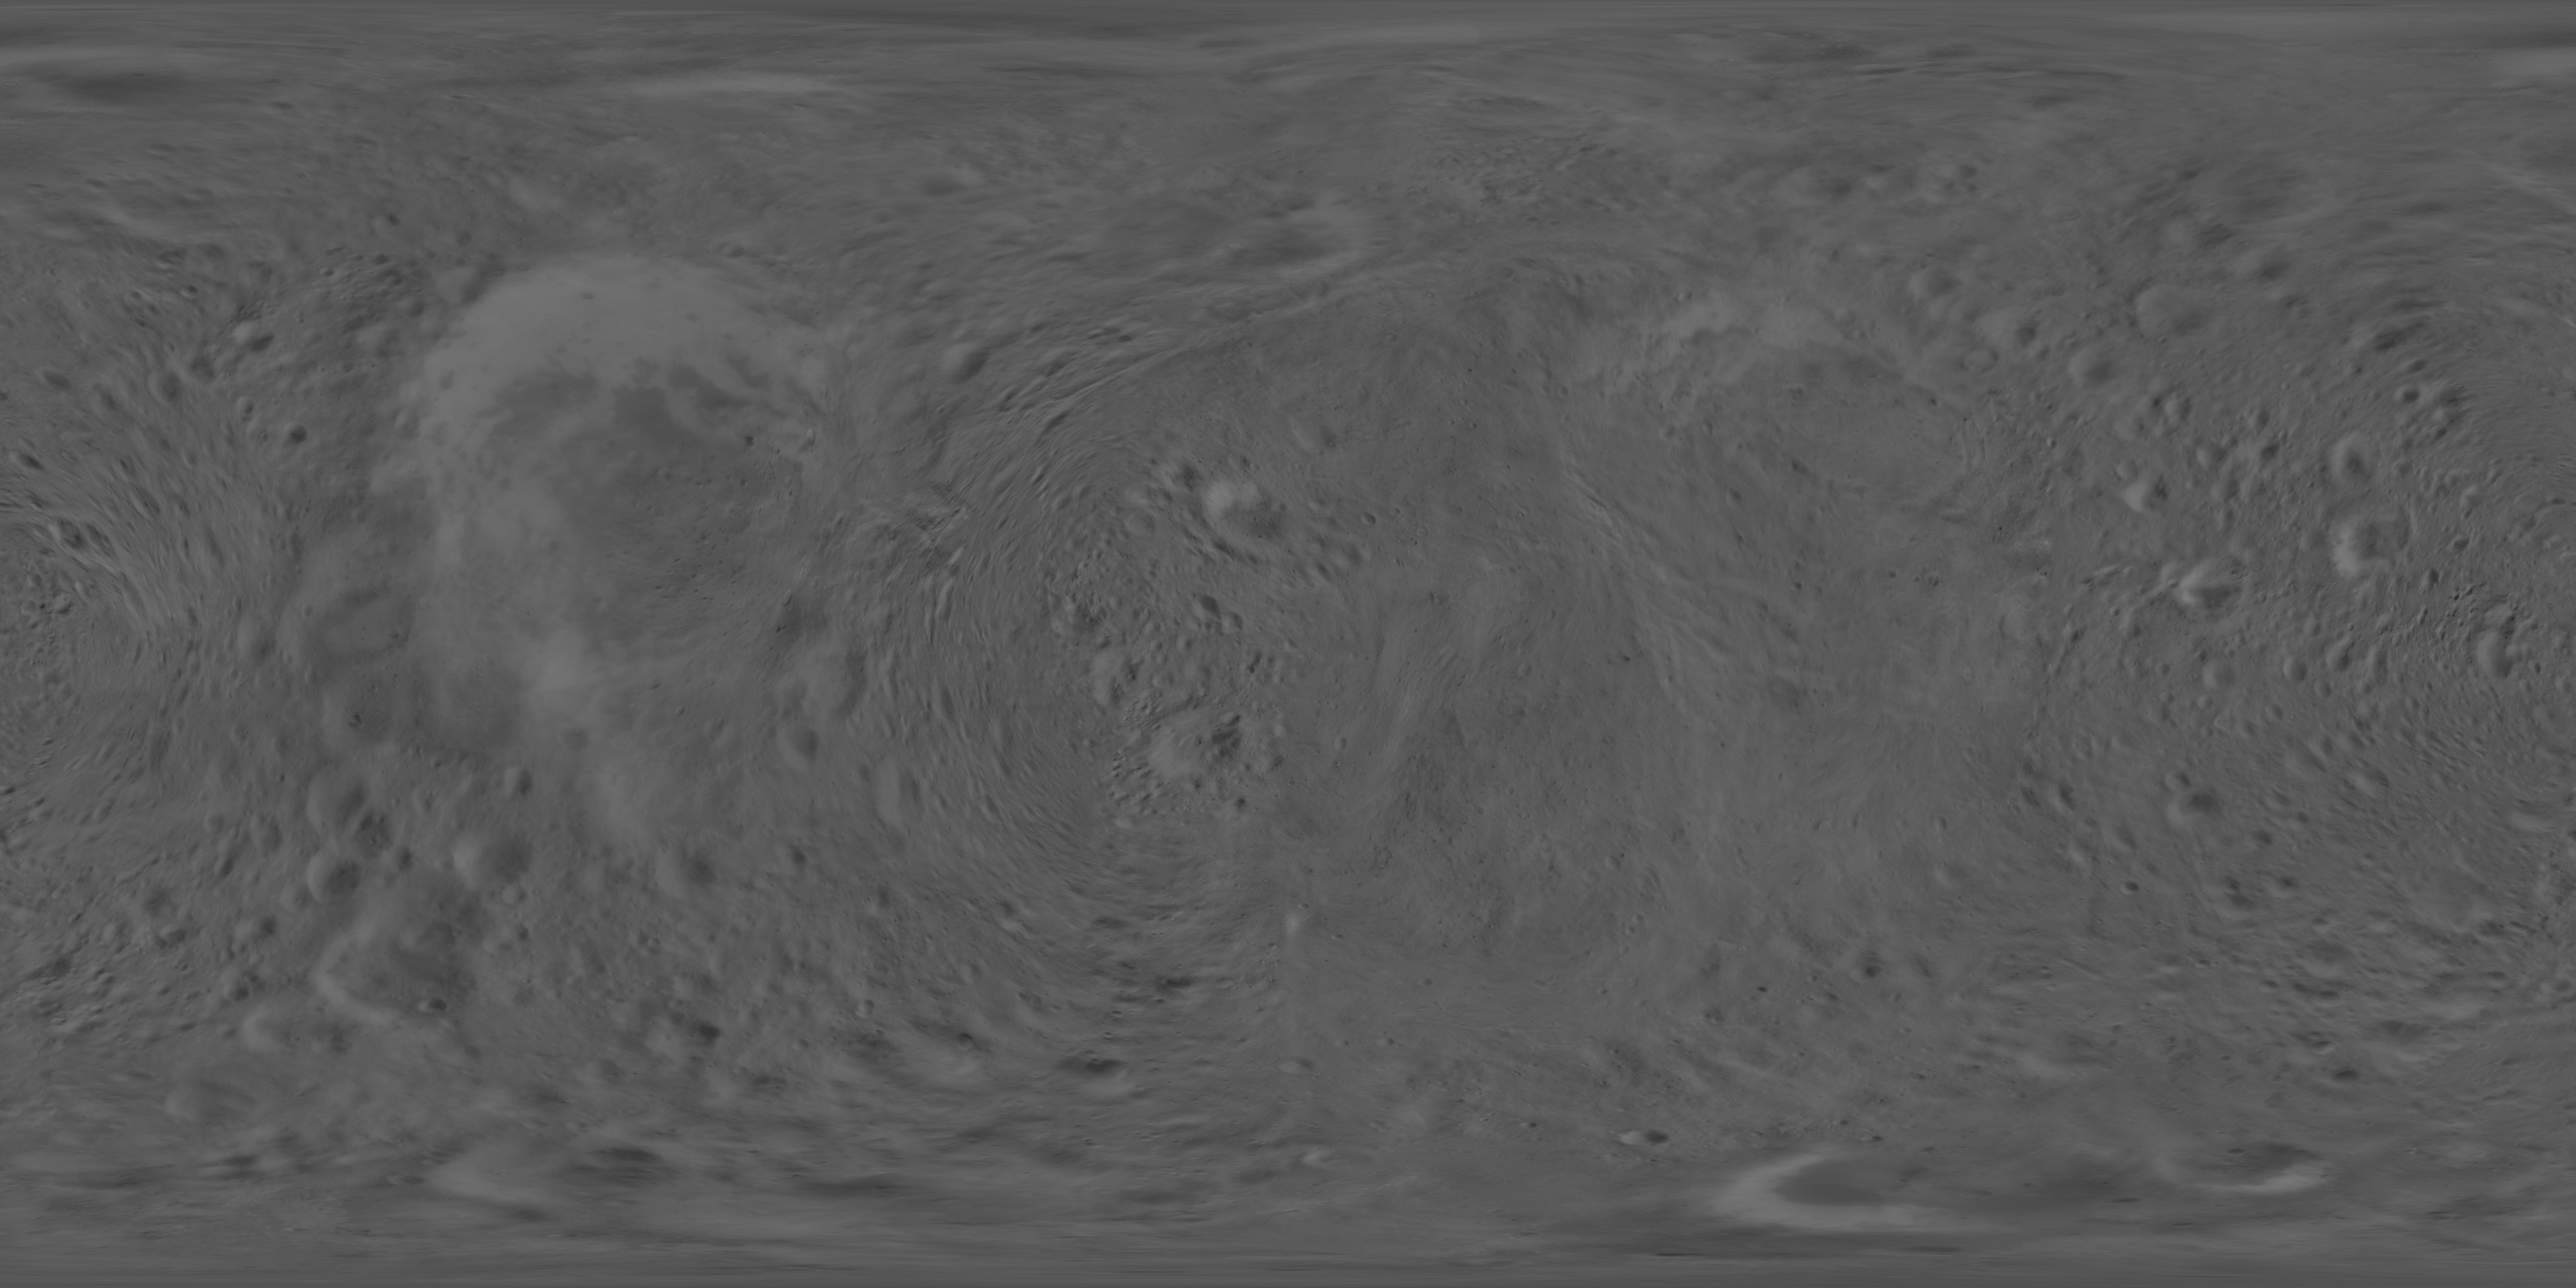
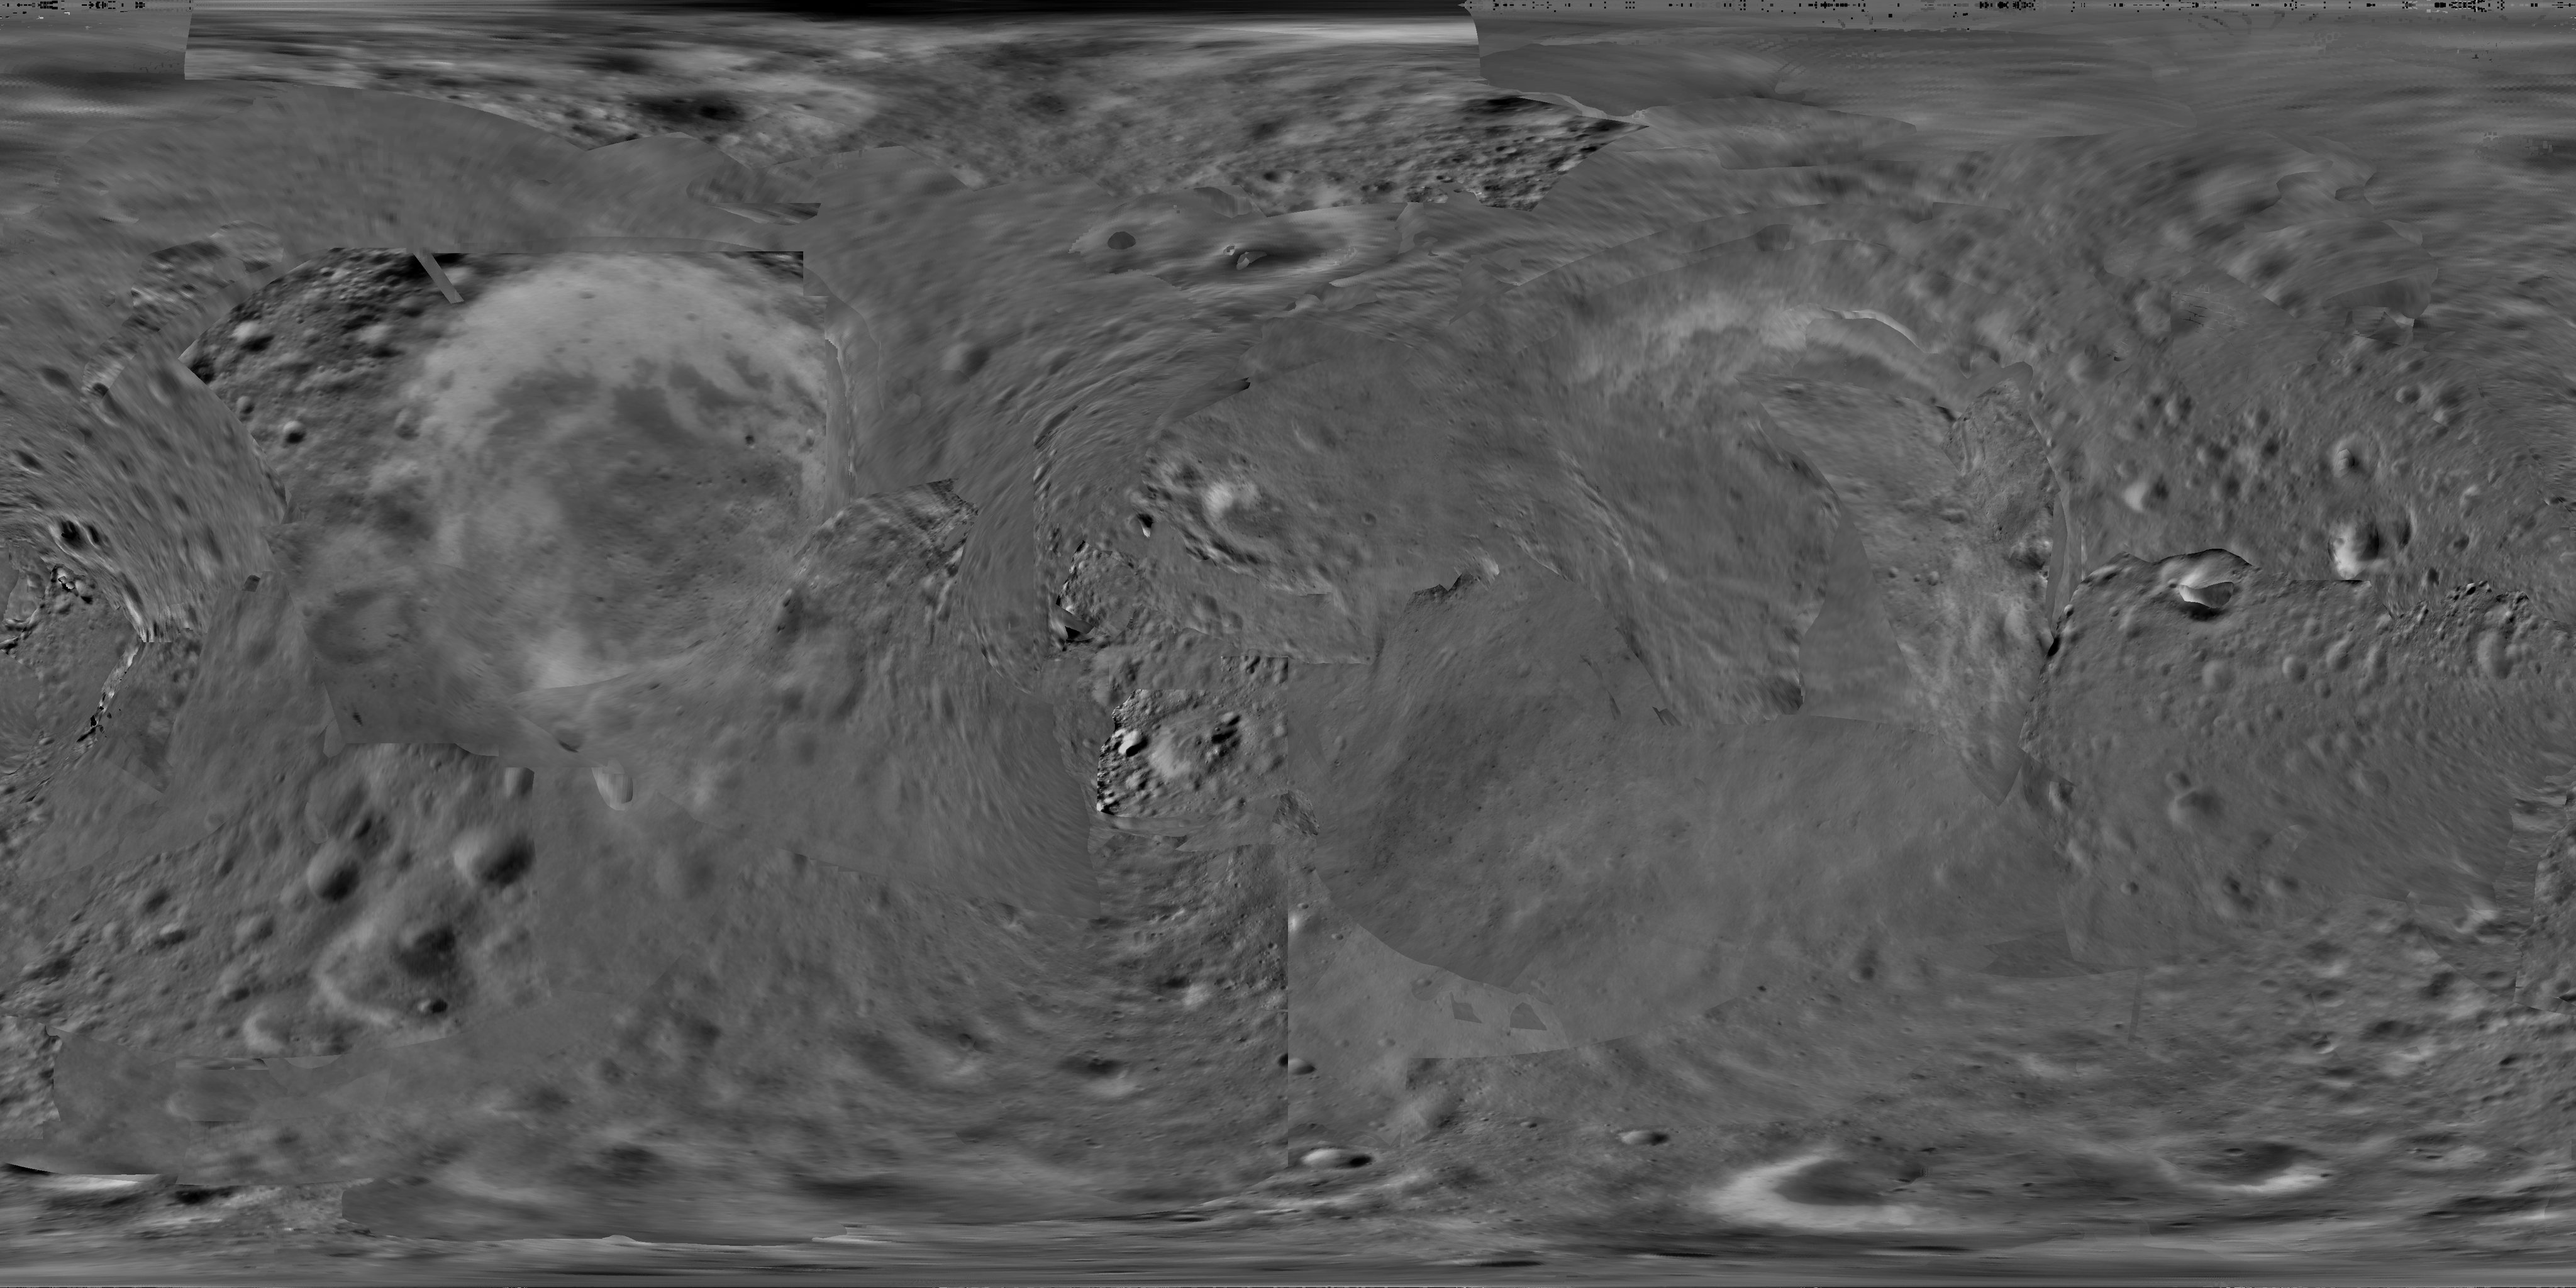
Vesta and Eros textures from the Dawn and NEAR global mosaics
Vesta's old map was in the Dawn-Claudia system, 150 deg off the IAU 2015
rotation the app uses; the DLR mosaic is in Claudia Double Prime, which matches.
Eros's NEAR basemap lines up with the old map (correlation 0.84 at 0 deg).

diff --git a/tools/asteroid_texture.py b/tools/asteroid_texture.py
@@ -1,0 +1,54 @@
+"""resources/<Body>.jpg from spacecraft global mosaics, 4096 x 2048.
+
+    python3 tools/asteroid_texture.py Ceres Ceres_Dawn_FC_DLR_global_59ppd_Feb2016.cub resources/Ceres.jpg
+    python3 tools/asteroid_texture.py Vesta Vesta_Dawn_FC_HAMO_Mosaic_Global_74ppd.tif resources/Vesta.jpg
+    python3 tools/asteroid_texture.py Eros f4_16_00n000.png resources/Eros.jpg
+
+Sources (planetarymaps.usgs.gov/mosaic/ for Dawn, NASA PDS Small Bodies Node for NEAR):
+  Ceres  Dawn FC global mosaic, DLR, Feb 2016, 140 m/pixel (ISIS cube, 214 MB)
+  Vesta  Dawn FC HAMO global mosaic, DLR, 60 m/pixel, Claudia Double Prime = IAU 2015
+         (W0 285.39), the system of SolarSystem/IauRotation.hpp (TIFF, 357 MB)
+  Eros   NEAR MSI global basemap F4_16_00N000, M. Robinson (sbnarchive.psi.edu/pds4/near/
+         near_msi_digital_image_maps/browse/basemaps/pngs/f4_16_00n000.png, 6.8 MB)
+All end up simple cylindrical, positive east, -180 deg at the left edge like the other maps.
+"""
+import sys
+import numpy as np
+from PIL import Image
+
+Image.MAX_IMAGE_PIXELS = None
+body, src, out = sys.argv[1:4]
+# Mean grey of the albedo maps these replace, so each body keeps its exposure in the app.
+MEAN = {'Ceres': 63.6, 'Vesta': 123.4, 'Eros': 89.4}[body]
+
+if src.endswith('.cub'):
+    # Ceres's cube label: 8-bit, one band, tiles of 267 x 128 after a 64 KiB label.
+    S, L, TS, TL, START = 21093, 10546, 267, 128, 65536
+    tx, ty = -(-S // TS), -(-L // TL)
+    raw = np.fromfile(src, np.uint8, count=tx * ty * TS * TL, offset=START)
+    if raw.size != tx * ty * TS * TL:
+        sys.exit(src + ': truncated')
+    img = Image.fromarray(raw.reshape(ty, tx, TL, TS).transpose(0, 2, 1, 3).reshape(ty * TL, tx * TS)[:L, :S])
+else:
+    img = Image.open(src).convert('L')
+a = np.asarray(img.resize((4096, 2048), Image.LANCZOS), np.float32)
+if body == 'Eros':
+    a = np.roll(a, 2048, axis=1)   # the NEAR map runs 0..360 E from its left edge
+
+# Polar caps never seen in daylight: Ceres has no data below -85.5 deg, Vesta's north
+# above ~65 N was imaged under a grazing Sun. Those rows (south: empty, north: darker
+# than 60% of the mean grey) are replaced by the band next to them, mirrored.
+rows = a.mean(1)
+south = np.nonzero(rows < 10)[0]
+south = south[south > 1648]
+north = np.nonzero(rows < 0.6 * a.mean())[0]
+north = north[north < 400]
+if south.size:
+    r0 = south.min()
+    a[r0:] = a[r0 - 1:2 * r0 - 2049:-1]
+if north.size:
+    r1 = north.max() + 1
+    a[:r1] = a[2 * r1 - 1:r1 - 1:-1]
+
+a = np.clip(a * (MEAN / a.mean()), 0, 255)
+Image.fromarray(a.astype(np.uint8)).convert('RGB').save(out, quality=85, optimize=True)

diff --git a/README.md b/README.md
@@ -244,7 +244,7 @@ in `tools/`, from public files:
 | `tools/satellite_fit.py` | Horizons API | `SolarSystem/SatelliteOrbits.hpp` |
 | `tools/satellite_tables.py` | Horizons API | `resources/moons/*.bin` |
 | `tools/smallbody_tables.py` | Horizons API | `resources/bodies/*.bin` |
-| `tools/ceres_texture.py` | Dawn FC global mosaic, `planetarymaps.usgs.gov/mosaic/Ceres_Dawn_FC_DLR_global_59ppd_Feb2016.cub` (214 MB) | `resources/Ceres.jpg` |
+| `tools/asteroid_texture.py` | Dawn FC global mosaics of Ceres and Vesta (`planetarymaps.usgs.gov/mosaic/`), NEAR MSI global basemap of Eros (PDS Small Bodies Node) | `resources/{Ceres,Vesta,Eros}.jpg` |
 
 ## Tests
 
@@ -265,5 +265,7 @@ refresh the references with `tests/visual/render_refs.sh tests/visual/ref`.
 Source code under the MIT License, see [LICENSE](LICENSE). JPL/NASA ephemeris
 data are public domain. Third-party files (the `glad/` loader, textures, font
 and shape models in `resources/`) remain under the terms of their authors.
-Ceres's map is the Dawn Framing Camera global mosaic by DLR (NASA/JPL-Caltech/
-UCLA/MPS/DLR/IDA), distributed by the USGS Astrogeology Science Center.
+The maps of Ceres and Vesta are Dawn Framing Camera global mosaics by DLR
+(NASA/JPL-Caltech/UCLA/MPS/DLR/IDA), distributed by the USGS Astrogeology Science
+Center; Eros's is the NEAR Shoemaker MSI global basemap by M. Robinson
+(NASA/JHUAPL), from the PDS Small Bodies Node.
